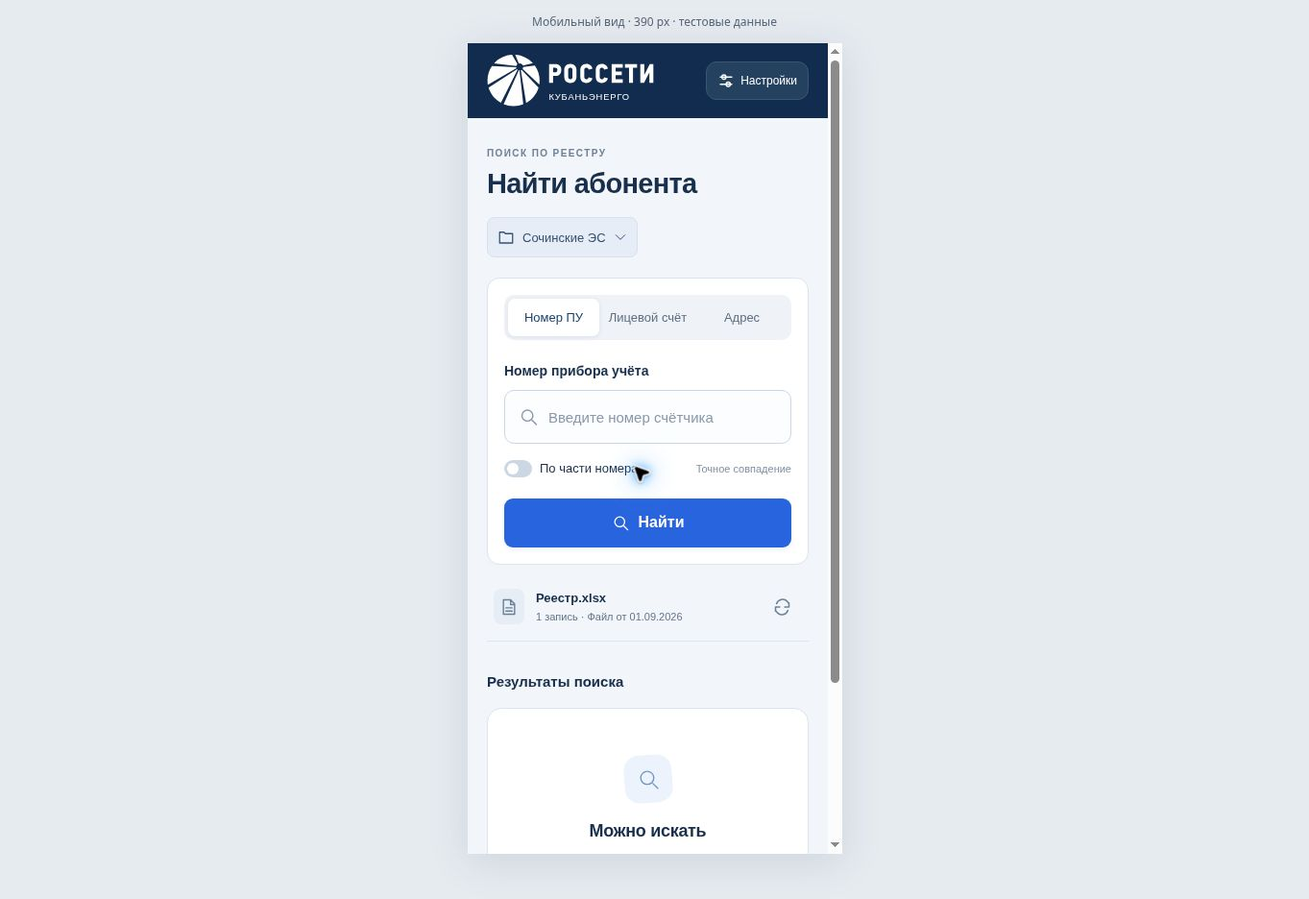
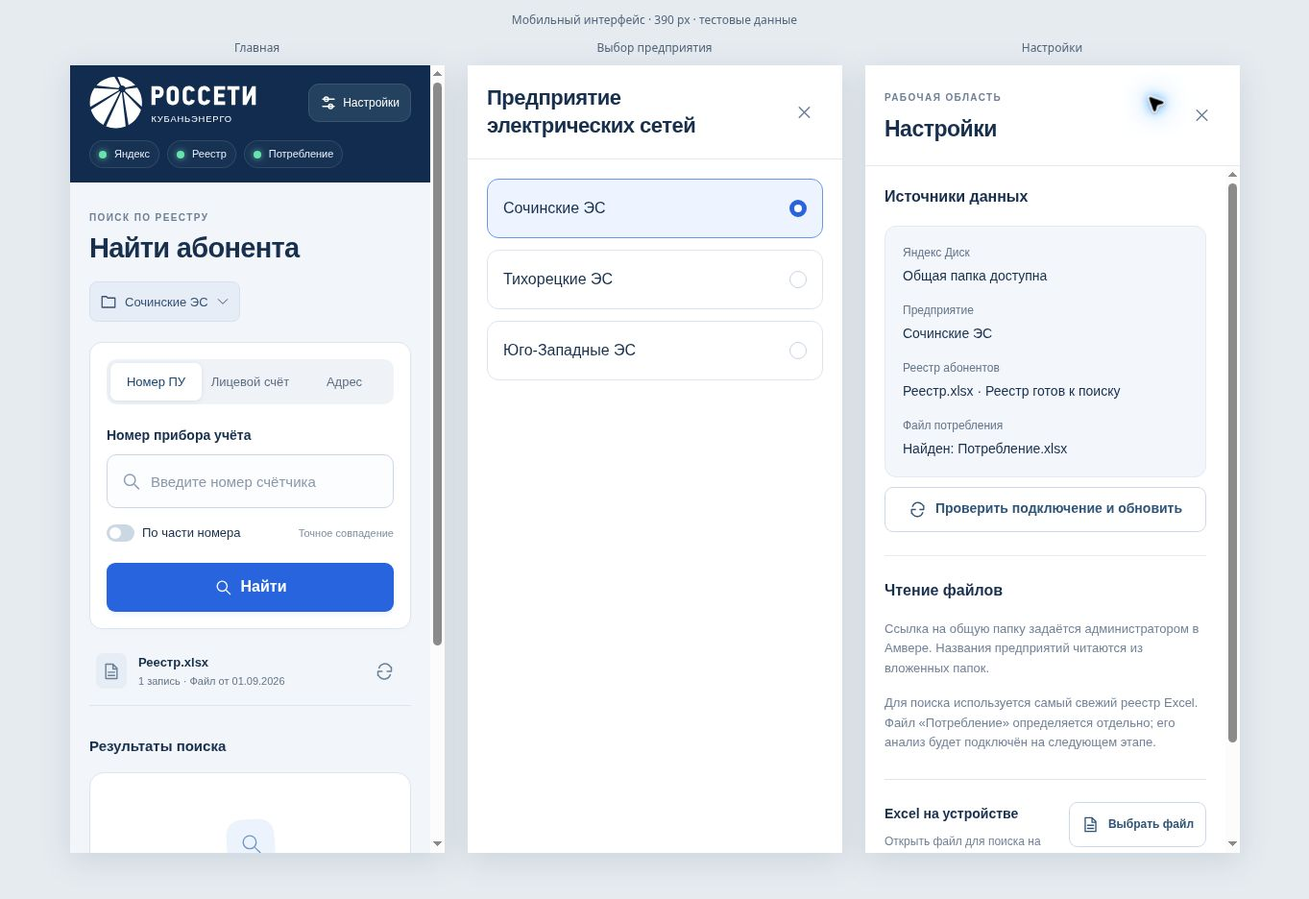
Separate enterprise picker from settings and show three source indicators

diff --git a/public/styles.css b/public/styles.css
@@ -3,7 +3,7 @@
 *{box-sizing:border-box}body{margin:0;font-size:16px;line-height:1.5}button,input,select{font:inherit}button,a,input,select,label{ -webkit-tap-highlight-color:transparent}button{cursor:pointer}button{border:0}button:disabled{cursor:wait;opacity:.5}a{color:inherit;text-decoration:none}svg{width:24px;height:24px;fill:none;stroke:currentColor;stroke-width:1.7;stroke-linecap:round;stroke-linejoin:round;flex-shrink:0}h1,h2,h3,p{margin:0}button:focus-visible,a:focus-visible,input:focus-visible,select:focus-visible{outline:3px solid var(--focus);outline-offset:3px}button{transition:background .16s,box-shadow .16s,transform .16s}button:active{transform:translateY(1px)}[hidden]{display:none!important}.icon-defs{position:absolute;width:0;height:0;overflow:hidden}.sr-only{position:absolute;width:1px;height:1px;padding:0;margin:-1px;overflow:hidden;clip:rect(0,0,0,0);white-space:nowrap;border:0}
 .topbar{background:var(--navy);color:#fff}.header-inner{max-width:1184px;margin:auto;height:100px;padding:0 40px;display:flex;align-items:center;gap:28px}.brand{display:block;position:relative;flex:0 0 auto;width:222px;line-height:1}.brand-logo{display:block;width:100%;height:auto;filter:brightness(0) invert(1)}.brand-caption{position:absolute;left:37%;top:71.5%;font-size:12px;letter-spacing:1.1px;font-weight:500;color:#fff;line-height:1;white-space:nowrap}.header-note{font-size:14px;color:#a9bdd5;border-left:1px solid #3c516c;padding-left:28px}.settings-button{margin-left:auto;display:flex;align-items:center;gap:9px;color:#fff;background:#254160;border:1px solid #3d5571;border-radius:11px;height:44px;padding:0 15px;font-size:14px}.settings-button:hover{background:#355272}.settings-button svg{width:20px}
 .workspace{max-width:1184px;margin:auto;padding:45px 40px 0}.page-heading{position:relative;margin-bottom:29px}.eyebrow{font-size:11px;font-weight:650;letter-spacing:1.6px;color:#6f8197}.page-heading h1{font-size:36px;line-height:1.25;letter-spacing:-1.1px;margin-top:8px;font-weight:650}.district-button{position:absolute;right:0;bottom:5px;display:flex;gap:9px;align-items:center;background:#e6edf7;color:#345274;border:1px solid #d6e1ef;border-radius:8px;padding:10px 12px;font-size:14px;max-width:48%;text-align:left}.district-button span{overflow-wrap:anywhere}.district-button>svg:first-child{width:18px}.small-chevron{width:14px!important;height:14px!important;transform:rotate(90deg)}.work-grid{display:grid;grid-template-columns:390px minmax(0,1fr);gap:38px;align-items:start}.search-panel{padding:24px;background:var(--surface);border:1px solid var(--line);border-radius:16px;box-shadow:0 3px 8px #20375303}.search-types{margin:0 0 28px;padding:4px;display:flex;border:none;gap:3px;background:#eff3f8;border-radius:10px}.search-types label{flex:1;position:relative}.search-types input{position:absolute;opacity:0;width:1px}.search-types span{display:flex;justify-content:center;align-items:center;min-height:41px;font-size:14px;color:#5e6e83;white-space:nowrap;border-radius:7px;cursor:pointer;font-weight:500}.search-types input:checked+span{background:#fff;color:#194371;box-shadow:0 1px 5px #1b385319}.search-types input:focus-visible+span{outline:3px solid var(--focus)}.input-label{display:block;font-size:14px;font-weight:550;margin-bottom:9px}.search-input-wrap{display:flex;align-items:center;position:relative}.search-input-wrap>svg{position:absolute;left:15px;color:#8b9bb0;width:21px}.search-input-wrap input{width:100%;min-width:0;height:57px;padding:0 40px 0 45px;border:1.5px solid #cbd7e5;border-radius:10px;background:#fcfdff;color:var(--ink);font-size:17px;letter-spacing:.2px}.search-input-wrap input::placeholder{font-size:15px;letter-spacing:0;color:#8a98aa}.search-input-wrap input:focus{border-color:var(--blue);outline:3px solid #2864de12}.clear-input{position:absolute;right:4px;height:42px;width:36px;color:#758399;background:transparent;display:grid;place-items:center}.clear-input svg{width:17px}.search-options{display:flex;align-items:center;justify-content:space-between;margin:18px 0 25px;gap:8px}.switch-label{display:flex;align-items:center;gap:8px;cursor:pointer;font-size:13px;position:relative}.switch-label input{position:absolute;opacity:0}.switch-track{position:relative;display:block;width:29px;height:18px;background:#ccd7e4;border-radius:20px;flex-shrink:0}.switch-track:before{content:'';position:absolute;top:3px;left:3px;width:12px;height:12px;background:white;border-radius:50%;transition:transform .15s}.switch-label input:checked+.switch-track{background:var(--blue)}.switch-label input:checked+.switch-track:before{transform:translateX(11px)}.switch-label input:focus-visible+.switch-track{outline:3px solid var(--focus)}#match-hint{font-size:11px;color:#8090a4}.primary,.secondary{display:inline-flex;align-items:center;justify-content:center;gap:9px;min-height:47px;padding:11px 19px;border-radius:9px;font-size:14px;font-weight:600;line-height:1.4}.primary{background:var(--blue);color:#fff;box-shadow:0 3px 5px #2864de12}.primary:hover{background:#1956ca}.secondary{background:#fff;border:1px solid #cdd9e7;color:#305578}.secondary:hover{background:#f0f5fb}.primary svg,.secondary svg{width:19px;height:19px}.search-submit{width:100%;height:51px;font-size:16px}.source-card{display:flex;align-items:center;gap:12px;margin-top:18px;padding:17px 13px;border-bottom:1px solid var(--line)}.source-icon{width:37px;height:42px;display:grid;place-items:center;color:#6a8098;background:#e6edf5;border-radius:8px;flex-shrink:0}.source-icon svg{width:20px}.source-copy{min-width:0;flex:1}.source-copy strong{display:block;font-size:13px;line-height:1.5;font-weight:600;overflow-wrap:anywhere}.source-copy span{display:block;font-size:12px;color:var(--muted);margin-top:2px;line-height:1.5}.icon-button{width:42px;height:42px;display:grid;place-items:center;background:transparent;color:#6b8099;border-radius:9px;flex-shrink:0}.icon-button:hover{background:#e9eff6}.icon-button svg{width:21px}.desktop-footnote{display:flex;align-items:center;gap:13px;color:#8c9bad;padding:30px 15px;font-size:13px}.desktop-footnote svg{width:18px;height:26px;stroke-width:1.3}.demo-banner{display:flex;align-items:center;justify-content:space-between;gap:8px;margin-top:14px;font-size:12px;color:#956b16;background:#fff3cf;padding:9px 11px;border-radius:7px}.demo-banner button{background:none;color:#73500d;text-decoration:underline;font-size:12px;padding:5px}.example-queries{display:flex;flex-wrap:wrap;align-items:center;gap:7px;margin:15px 0;font-size:12px;color:var(--muted)}.example-queries button{border:1px solid #cedbed;border-radius:6px;padding:6px 9px;background:white;color:#426387;font-size:12px}.results-heading{display:flex;align-items:center;justify-content:space-between;min-height:28px;margin:0 0 15px}.results-heading h2{font-size:16px;font-weight:600}.results-heading>span{font-size:12px;color:#6d8099}.empty-state{background:#fff;border:1px solid var(--line);border-radius:15px;min-height:332px;display:flex;flex-direction:column;align-items:center;justify-content:center;text-align:center;padding:36px 27px;position:relative;overflow:hidden}.empty-mark{height:65px;width:65px;border-radius:20px;background:#edf3fc;color:#6e96ca;display:grid;place-items:center;margin-bottom:22px;transform:rotate(-4deg)}.empty-mark svg{width:30px;height:30px;transform:rotate(4deg);stroke-width:1.3}.empty-state h3{font-size:19px;font-weight:600;letter-spacing:-.3px;margin-bottom:9px}.empty-state p{font-size:14px;line-height:1.7;color:var(--muted);max-width:295px;margin-bottom:23px}.empty-actions{display:flex;flex-direction:column;align-items:center;gap:12px}.text-button{color:#436b9c;font-size:13px;padding:8px;background:none}.text-button:hover{text-decoration:underline}.result-card{background:#fff;border:1px solid var(--line);border-radius:14px;margin-bottom:13px;overflow:hidden;box-shadow:0 2px 3px #203c5302}.result-top{padding:20px 22px 15px;display:flex;gap:12px;justify-content:space-between;align-items:flex-start}.result-name{font-size:17px;font-weight:600;line-height:1.4;overflow-wrap:anywhere;flex:1}.status{border:1px solid #d2e5dd;background:#edf7f2;color:#36705a;padding:3px 7px;border-radius:5px;font-size:11px;white-space:nowrap}.status.off{background:#f5eee8;border-color:#e9dcd0;color:#8a6545}.result-address{display:flex;gap:7px;color:var(--muted);padding:0 22px 18px;font-size:13px}.result-address svg{width:15px;height:18px;margin-top:1px}.result-numbers{display:grid;grid-template-columns:1fr 1fr;margin:0 22px 17px;background:#f4f7fc;border-radius:9px;padding:12px 14px;gap:14px}.number-label{font-size:11px;color:#71839b;margin-bottom:5px}.number-value{font-size:17px;font-weight:600;letter-spacing:.4px;overflow-wrap:anywhere;font-variant-numeric:tabular-nums}.result-bottom{display:flex;justify-content:space-between;align-items:center;border-top:1px solid #e7edf4;padding:11px 16px 11px 22px;gap:10px}.result-bottom span{font-size:12px;color:#8291a5}.record-open{background:transparent;color:#2864bf;padding:7px 4px;font-size:13px;font-weight:600}.show-more{width:100%;margin-top:8px}.form-message{font-size:13px;line-height:1.6;margin-top:14px;padding:12px;border-radius:8px;background:#fef0ed;color:#9b4b3c;overflow-wrap:anywhere}.form-message.loading{background:#edf4ff;color:#406c9d}.page-footer{display:flex;justify-content:space-between;border-top:1px solid #dce4ee;margin-top:75px;padding:23px 0 26px;font-size:10px;letter-spacing:1px;color:#8b9cb1}.page-footer>span:last-child{letter-spacing:0;font-size:12px}.footer-slash{margin:0 8px;color:#b0bed0}
-dialog{border:0;padding:0;color:var(--ink);box-shadow:0 20px 100px #0c244440;border-radius:20px;width:560px;max-width:calc(100vw - 28px);max-height:calc(100dvh - 48px);background:#fff}dialog::backdrop{background:#0e253868;backdrop-filter:blur(3px)}dialog[open]{display:flex;flex-direction:column}.dialog-header{display:flex;justify-content:space-between;gap:16px;align-items:center;padding:24px 26px 21px;border-bottom:1px solid #e2e9f1;background:#fff;flex-shrink:0}.dialog-header h2{font-size:24px;font-weight:600;letter-spacing:-.5px;margin-top:5px}.dialog-body{padding:24px 26px;overflow-y:auto;overscroll-behavior:contain}.setting-section+.setting-section{border-top:1px solid #e6ecf3;margin-top:24px;padding-top:24px}.setting-section h3{font-size:16px;font-weight:600;display:flex;align-items:center;gap:11px;margin-bottom:18px}.step{font-size:11px;font-weight:600;line-height:27px;text-align:center;width:27px;color:#5082bd;border-radius:7px;background:#edf3fc}.text-input{width:100%;height:49px;border:1px solid #cad7e7;border-radius:8px;padding:0 13px;background:#fcfdff;color:var(--ink);font-size:16px}.hint{font-size:13px;color:#738297;line-height:1.6;margin:8px 0 15px}.full-width{width:100%;margin-top:10px}.pinned-source{display:flex;align-items:center;gap:10px;font-size:14px;background:#f1f5fb;border-radius:8px;padding:15px 12px}.pinned-source>svg{width:18px;color:#5680b3}.tag{margin-left:auto;color:#647a95;font-size:10px;white-space:nowrap}.choice-list{display:grid;gap:9px}.choice-item{display:flex;align-items:center;gap:12px;border:1px solid #dbe4ef;border-radius:9px;padding:13px;text-align:left;background:#fff;color:var(--ink);width:100%}.choice-item.selected{border-color:#6599e7;background:#edf4ff}.choice-item>svg{width:20px;color:#6b8fb9}.choice-item>span{flex:1;font-size:14px;min-width:0;overflow-wrap:anywhere}.choice-item small{display:block;color:#73859d;font-size:11px;margin-top:3px}.choice-dot{width:18px;height:18px;border:1.5px solid #c5d4e7;border-radius:50%;flex-shrink:0}.selected .choice-dot{border:5px solid var(--blue);background:white}.local-source{border-top:1px solid var(--line);padding-top:23px;margin-top:27px;display:flex;align-items:center;gap:15px}.local-source>div{flex:1}.local-source strong{font-size:14px;font-weight:550}.local-source .hint{font-size:12px;margin-bottom:0}.file-upload{cursor:pointer;font-size:12px;white-space:nowrap;padding:10px 12px}.file-upload:focus-within{outline:3px solid var(--focus);outline-offset:3px}.privacy-note{font-size:11px;color:#8997a9;margin-top:23px;line-height:1.65}.map-sheet{margin-top:18px;background:#f5f8fc;padding:15px;border-radius:9px}.map-sheet h4{margin:0 0 12px;font-size:14px}.map-row{margin-bottom:12px}.map-row label{display:block;font-size:12px;margin-bottom:5px}.map-row select{width:100%;border:1px solid #cdd9e8;background:white;border-radius:6px;padding:10px;font-size:14px;color:var(--ink)}.map-preview{font-size:12px;color:#6a7e98;margin-top:5px;overflow-wrap:anywhere}.notice{margin-top:15px;background:#fff5de;border-radius:8px;padding:12px;font-size:12px;color:#886a23}.record-dialog{width:650px}.record-intro{margin-bottom:22px}.record-intro h3{font-size:23px;letter-spacing:-.5px;line-height:1.4;margin-bottom:10px}.record-intro p{font-size:14px;color:var(--muted);line-height:1.6}.record-main-numbers{display:grid;grid-template-columns:1fr 1fr;gap:10px;margin:23px 0;background:#f0f5fc;padding:17px;border-radius:10px}.record-main-numbers .number-value{font-size:19px}.record-main-numbers .number-label{font-size:12px}.detail-row{display:grid;grid-template-columns:1fr 1.2fr;gap:20px;border-bottom:1px solid #edf1f6;padding:12px 0;font-size:14px;overflow-wrap:anywhere}.detail-row dt{color:#708098}.detail-row dd{margin:0;white-space:pre-wrap}.details-title{font-size:13px;font-weight:600;color:#60738b;margin-top:24px}.record-source{font-size:12px;line-height:1.8;color:#8a98aa;margin-top:23px;overflow-wrap:anywhere}.copy-record{margin-top:18px;width:100%}.toast{position:fixed;z-index:20;bottom:24px;left:50%;transform:translateX(-50%);padding:12px 20px;background:var(--navy);color:white;border-radius:9px;box-shadow:0 6px 30px #12345620;font-size:14px;text-align:center;max-width:calc(100% - 30px);width:max-content}.loading-indicator{width:22px;height:22px;border:2px solid #d7e5f8;border-top-color:var(--blue);border-radius:50%;animation:spin 1s linear infinite;margin:20px auto}.loading-row{padding:20px;text-align:center;color:var(--muted);font-size:14px}@keyframes spin{to{transform:rotate(360deg)}}
+dialog{height:min(760px, calc(100dvh - 48px));border:0;padding:0;color:var(--ink);box-shadow:0 20px 100px #0c244440;border-radius:20px;width:560px;max-width:calc(100vw - 28px);max-height:calc(100dvh - 48px);background:#fff}dialog::backdrop{background:#0e253868;backdrop-filter:blur(3px)}dialog[open]{display:flex;flex-direction:column}.dialog-header{display:flex;justify-content:space-between;gap:16px;align-items:center;padding:24px 26px 21px;border-bottom:1px solid #e2e9f1;background:#fff;flex-shrink:0}.dialog-header h2{font-size:24px;font-weight:600;letter-spacing:-.5px;margin-top:5px}.dialog-body{padding:24px 26px;overflow-y:auto;overscroll-behavior:contain}.setting-section+.setting-section{border-top:1px solid #e6ecf3;margin-top:24px;padding-top:24px}.setting-section h3{font-size:16px;font-weight:600;display:flex;align-items:center;gap:11px;margin-bottom:18px}.step{font-size:11px;font-weight:600;line-height:27px;text-align:center;width:27px;color:#5082bd;border-radius:7px;background:#edf3fc}.text-input{width:100%;height:49px;border:1px solid #cad7e7;border-radius:8px;padding:0 13px;background:#fcfdff;color:var(--ink);font-size:16px}.hint{font-size:13px;color:#738297;line-height:1.6;margin:8px 0 15px}.full-width{width:100%;margin-top:10px}.pinned-source{display:flex;align-items:center;gap:10px;font-size:14px;background:#f1f5fb;border-radius:8px;padding:15px 12px}.pinned-source>svg{width:18px;color:#5680b3}.tag{margin-left:auto;color:#647a95;font-size:10px;white-space:nowrap}.choice-list{display:grid;gap:9px}.choice-item{display:flex;align-items:center;gap:12px;border:1px solid #dbe4ef;border-radius:9px;padding:13px;text-align:left;background:#fff;color:var(--ink);width:100%}.choice-item.selected{border-color:#6599e7;background:#edf4ff}.choice-item>svg{width:20px;color:#6b8fb9}.choice-item>span{flex:1;font-size:14px;min-width:0;overflow-wrap:anywhere}.choice-item small{display:block;color:#73859d;font-size:11px;margin-top:3px}.choice-dot{width:18px;height:18px;border:1.5px solid #c5d4e7;border-radius:50%;flex-shrink:0}.selected .choice-dot{border:5px solid var(--blue);background:white}.local-source{border-top:1px solid var(--line);padding-top:23px;margin-top:27px;display:flex;align-items:center;gap:15px}.local-source>div{flex:1}.local-source strong{font-size:14px;font-weight:550}.local-source .hint{font-size:12px;margin-bottom:0}.file-upload{cursor:pointer;font-size:12px;white-space:nowrap;padding:10px 12px}.file-upload:focus-within{outline:3px solid var(--focus);outline-offset:3px}.privacy-note{font-size:11px;color:#8997a9;margin-top:23px;line-height:1.65}.map-sheet{margin-top:18px;background:#f5f8fc;padding:15px;border-radius:9px}.map-sheet h4{margin:0 0 12px;font-size:14px}.map-row{margin-bottom:12px}.map-row label{display:block;font-size:12px;margin-bottom:5px}.map-row select{width:100%;border:1px solid #cdd9e8;background:white;border-radius:6px;padding:10px;font-size:14px;color:var(--ink)}.map-preview{font-size:12px;color:#6a7e98;margin-top:5px;overflow-wrap:anywhere}.notice{margin-top:15px;background:#fff5de;border-radius:8px;padding:12px;font-size:12px;color:#886a23}.record-dialog{width:650px}.record-intro{margin-bottom:22px}.record-intro h3{font-size:23px;letter-spacing:-.5px;line-height:1.4;margin-bottom:10px}.record-intro p{font-size:14px;color:var(--muted);line-height:1.6}.record-main-numbers{display:grid;grid-template-columns:1fr 1fr;gap:10px;margin:23px 0;background:#f0f5fc;padding:17px;border-radius:10px}.record-main-numbers .number-value{font-size:19px}.record-main-numbers .number-label{font-size:12px}.detail-row{display:grid;grid-template-columns:1fr 1.2fr;gap:20px;border-bottom:1px solid #edf1f6;padding:12px 0;font-size:14px;overflow-wrap:anywhere}.detail-row dt{color:#708098}.detail-row dd{margin:0;white-space:pre-wrap}.details-title{font-size:13px;font-weight:600;color:#60738b;margin-top:24px}.record-source{font-size:12px;line-height:1.8;color:#8a98aa;margin-top:23px;overflow-wrap:anywhere}.copy-record{margin-top:18px;width:100%}.toast{position:fixed;z-index:20;bottom:24px;left:50%;transform:translateX(-50%);padding:12px 20px;background:var(--navy);color:white;border-radius:9px;box-shadow:0 6px 30px #12345620;font-size:14px;text-align:center;max-width:calc(100% - 30px);width:max-content}.loading-indicator{width:22px;height:22px;border:2px solid #d7e5f8;border-top-color:var(--blue);border-radius:50%;animation:spin 1s linear infinite;margin:20px auto}.loading-row{padding:20px;text-align:center;color:var(--muted);font-size:14px}@keyframes spin{to{transform:rotate(360deg)}}
 @media(min-width:1400px){.workspace{padding-top:58px}.work-grid{gap:50px}.page-heading{margin-bottom:36px}}
 @media(max-width:900px){.work-grid{grid-template-columns:340px minmax(0,1fr);gap:22px}.header-inner{padding:0 25px}.workspace{padding:35px 25px 0}.search-panel{padding:18px}.district-button{max-width:43%}.page-heading h1{font-size:31px}.result-numbers{grid-template-columns:1fr}.result-name{font-size:16px}#match-hint{display:none}}
 @media(max-width:700px){.header-inner{height:78px;padding:0 20px;gap:12px}.brand{width:174px}.brand-caption{font-size:9.4px;letter-spacing:.85px}.header-note{display:none}.settings-button{height:40px;padding:0 11px;font-size:12px;gap:6px}.settings-button svg{width:18px}.workspace{padding:29px 20px 0}.eyebrow{font-size:10px;letter-spacing:1.4px}.page-heading{margin-bottom:21px}.page-heading h1{font-size:29px;letter-spacing:-.7px;margin-top:6px}.district-button{position:static;margin-top:17px;max-width:100%;font-size:13px;padding:8px 10px;gap:8px;min-height:38px}.work-grid{grid-template-columns:1fr;gap:28px}.search-panel{padding:17px;border-radius:13px}.search-types{margin-bottom:22px}.search-types span{min-height:39px;font-size:13px}.search-input-wrap input{height:56px;font-size:18px}.input-label{font-size:14px}.search-options{margin:16px 0 21px}.switch-label{font-size:13px}#match-hint{display:block;font-size:11px}.source-card{margin-top:9px;padding:14px 7px}.source-copy strong{font-size:13px}.source-copy span{font-size:11px}.source-icon{width:32px;height:37px}.desktop-footnote{display:none}.results-heading{margin-bottom:13px}.results-heading h2{font-size:15px}.empty-state{min-height:263px;padding:25px 23px}.empty-mark{width:50px;height:50px;border-radius:16px;margin-bottom:16px}.empty-mark svg{width:25px;height:25px}.empty-state h3{font-size:18px}.empty-state p{font-size:13px;margin-bottom:18px}.empty-actions{gap:6px}.empty-actions .secondary{font-size:13px;min-height:42px}.page-footer{margin-top:38px;padding-top:20px;padding-bottom:calc(24px + env(safe-area-inset-bottom));font-size:9px;letter-spacing:.7px}.page-footer>span:last-child{font-size:10px}.footer-slash{margin:0 4px}.result-top{padding:17px 17px 12px}.result-name{font-size:16px}.result-address{padding:0 17px 15px;font-size:13px}.result-numbers{margin:0 17px 14px;grid-template-columns:1fr 1fr;gap:12px;padding:12px}.number-value{font-size:16px}.result-bottom{padding:9px 13px 9px 17px}.result-bottom span{font-size:11px}.record-open{font-size:13px;min-height:36px}dialog{max-width:100%;width:100%;max-height:92dvh;margin:auto 0 0;border-radius:20px 20px 0 0}.dialog-header{padding:21px 21px 17px}.dialog-header h2{font-size:23px}.dialog-body{padding:21px 21px calc(24px + env(safe-area-inset-bottom))}.local-source{align-items:flex-start;flex-wrap:wrap}.record-intro h3{font-size:21px}.record-main-numbers{padding:14px}.record-main-numbers .number-value{font-size:17px}.detail-row{grid-template-columns:1fr 1.1fr;gap:15px;font-size:13px}.privacy-note{font-size:11px}.example-queries{margin-bottom:0}.toast{bottom:calc(20px + env(safe-area-inset-bottom))}}
@@ -12,3 +12,47 @@ dialog{border:0;padding:0;color:var(--ink);box-shadow:0 20px 100px #0c244440;bor
 dialog{overflow:hidden}.dialog-body{min-height:0;flex:1}.search-types input:disabled+span{opacity:.45;cursor:not-allowed}
 
 @media(max-width:360px){.settings-button{width:40px;padding:0;justify-content:center}.settings-button span{display:none}.page-footer{flex-direction:column;align-items:flex-start;gap:8px}}
+
+/* Connection lights and independent enterprise picker. */
+.header-inner{height:88px}
+.source-indicators{max-width:1184px;margin:0 auto;padding:0 40px 18px;display:flex;gap:9px;flex-wrap:wrap}
+.source-indicator{--lamp:#fb7b8c;display:inline-flex;align-items:center;gap:9px;min-height:29px;padding:5px 10px;color:#e4eefb;background:#ffffff08;border:1px solid #ffffff1b;border-radius:20px;font-size:11px;line-height:1.4;text-align:left}
+.source-indicator:hover{background:#ffffff14}
+.source-indicator[data-state="idle"]{--lamp:#7d91ab}.source-indicator[data-state="idle"] .status-light{box-shadow:0 0 0 3px #ffffff06}
+.source-indicator[data-state="on"]{--lamp:#65e4ad}
+.source-indicator[data-state="checking"]{--lamp:#90c9ff}
+.status-light{display:block;width:8px;height:8px;flex:0 0 8px;border-radius:50%;background:var(--lamp);box-shadow:0 0 0 3px #ffffff09,0 0 9px color-mix(in srgb,var(--lamp) 65%,transparent)}
+.source-indicator[data-state="checking"] .status-light{animation:lamp-pulse 1.2s ease-in-out infinite}
+@keyframes lamp-pulse{50%{opacity:.4}}
+.source-details{margin:0;display:grid;gap:16px;padding:18px;background:#f3f6fb;border:1px solid #e3eaf3;border-radius:12px}
+.source-details div{display:grid;gap:5px}
+.source-details dt{font-size:12px;color:var(--muted)}
+.source-details dd{margin:0;font-size:14px;line-height:1.5;overflow-wrap:anywhere}
+.enterprise-dialog{height:min(660px,calc(100dvh - 48px))}
+.enterprise-dialog .dialog-header h2{font-size:23px;line-height:1.3;margin:0;max-width:370px}
+.dialog-header .close-dialog{flex:0 0 40px}
+.enterprise-body .choice-item{min-height:62px;border-radius:12px;padding:16px}
+.enterprise-body .choice-item>span{font-size:16px;line-height:1.5}
+.enterprise-loading,.enterprise-empty{padding:48px 16px;text-align:center;color:var(--muted);font-size:14px;line-height:1.6}
+.enterprise-loading .loading-indicator{display:block;width:30px;height:30px;margin:0 auto 20px;border-width:3px}
+.loading-bar{height:3px;background:#e8eef7;border-radius:4px;overflow:hidden;max-width:180px;margin:22px auto 0}
+.loading-bar:before{content:"";display:block;width:40%;height:100%;background:var(--blue);border-radius:4px;animation:loading-bar 1.4s ease-in-out infinite}
+@keyframes loading-bar{from{transform:translateX(-100%)}to{transform:translateX(350%)}}
+.enterprise-empty .secondary{margin-top:18px}
+.consumption-action{padding:0 0 5px}
+.analysis-button{width:100%;display:flex;align-items:center;gap:12px;text-align:left;line-height:1.4;padding:15px;font-size:14px;border-radius:10px}
+.analysis-button:disabled{opacity:1;background:#eef3fb;color:#617894;border:1px solid #dce6f4;cursor:default}
+.analysis-button>svg{flex:0 0 22px}
+.soon-badge{margin-left:auto;flex-shrink:0;font-size:11px;padding:4px 7px;background:#fff;color:#667e9c;border-radius:5px}
+.consumption-action .hint{margin-bottom:0}
+html:has(dialog[open]){overflow:hidden}
+@media(max-width:700px){
+ .header-inner{height:78px}
+ .source-indicators{padding:0 20px 15px;gap:8px}
+ .source-indicator{padding:5px 9px;font-size:11px;gap:8px}
+ .full-screen-dialog{position:fixed;inset:0;width:100%;max-width:100%;height:100vh;height:100dvh;max-height:100vh;max-height:100dvh;margin:0;border:0;border-radius:0}
+ .full-screen-dialog .dialog-header{padding:calc(20px + env(safe-area-inset-top)) 20px 20px}
+ .full-screen-dialog .dialog-body{padding:20px 20px calc(24px + env(safe-area-inset-bottom));flex:1 1 auto;min-height:0;overflow-y:auto;-webkit-overflow-scrolling:touch}
+ .enterprise-dialog .dialog-header h2{font-size:22px}
+ .enterprise-dialog .choice-list{gap:12px}
+}

diff --git a/public/index.html b/public/index.html
@@ -24,12 +24,18 @@
     <symbol id="i-pin" viewBox="0 0 24 24"><path d="M19 10c0 6-7 11-7 11S5 16 5 10a7 7 0 1 1 14 0Z"/><circle cx="12" cy="10" r="2"/></symbol>
     <symbol id="i-copy" viewBox="0 0 24 24"><rect x="8" y="8" width="12" height="13" rx="2"/><path d="M16 8V3H3v13h5"/></symbol>
     <symbol id="i-chevron" viewBox="0 0 24 24"><path d="m8 4 8 8-8 8"/></symbol>
+    <symbol id="i-chart" viewBox="0 0 24 24"><path d="M4 3v17h17M8 15l4-5 4 2 5-7"/></symbol>
   </svg>
   <header class="topbar">
     <div class="header-inner">
       <a class="brand" href="./" aria-label="РОССЕТИ — Кубаньэнерго, главная"><img class="brand-logo" src="./rosseti-logo.svg" alt="РОССЕТИ" width="280" height="88"><span class="brand-caption">КУБАНЬЭНЕРГО</span></a>
       <span class="header-note">Рабочий реестр</span>
       <button class="settings-button" id="settings-open" aria-label="Настройки"><svg><use href="#i-settings"/></svg><span>Настройки</span></button>
+    </div>
+    <div class="source-indicators" aria-label="Источники данных">
+      <button type="button" class="source-indicator" id="disk-indicator" data-state="checking" data-open-settings><i class="status-light" aria-hidden="true"></i><span>Яндекс</span><span class="sr-only" id="disk-indicator-label">Проверяем подключение</span></button>
+      <button type="button" class="source-indicator" id="registry-indicator" data-state="idle" data-open-settings><i class="status-light" aria-hidden="true"></i><span>Реестр</span><span class="sr-only" id="registry-indicator-label">Предприятие не выбрано</span></button>
+      <button type="button" class="source-indicator" id="consumption-indicator" data-state="idle" data-open-settings><i class="status-light" aria-hidden="true"></i><span>Потребление</span><span class="sr-only" id="consumption-indicator-label">Предприятие не выбрано</span></button>
     </div>
   </header>
   <main class="workspace">
@@ -44,7 +50,7 @@
           <button class="primary search-submit" type="submit" id="search-submit"><svg><use href="#i-search"/></svg>Найти</button>
           <div id="form-message" class="form-message" role="status" hidden></div>
         </form>
-        <div class="source-card" id="source-card"><div class="source-icon"><svg><use href="#i-file"/></svg></div><div class="source-copy"><strong id="source-name">Реестр не подключён</strong><span id="source-meta">Выберите предприятие в настройках</span></div><button class="icon-button" id="refresh" title="Обновить реестр" aria-label="Обновить реестр" hidden><svg><use href="#i-refresh"/></svg></button></div>
+        <div class="source-card" id="source-card"><div class="source-icon"><svg><use href="#i-file"/></svg></div><div class="source-copy"><strong id="source-name">Реестр не подключён</strong><span id="source-meta">Выберите предприятие</span></div><button class="icon-button" id="refresh" title="Обновить реестр" aria-label="Обновить реестр" hidden><svg><use href="#i-refresh"/></svg></button></div>
         <div id="demo-banner" class="demo-banner" hidden><span>Демонстрация · вымышленные данные</span><button id="demo-exit" type="button">Выйти</button></div>
         <div id="example-queries" class="example-queries" hidden><span>Попробуйте</span><button data-query="00123456" data-field="meter">ПУ 00123456</button><button data-query="00000001001" data-field="account">ЛС 00000001001</button></div>
         <div class="desktop-footnote"><svg><use href="#i-bolt"/></svg><p>Вся строка реестра —<br>в одной карточке</p></div>
@@ -57,11 +63,15 @@
     </div>
     <footer class="page-footer"><span>РОССЕТИ <span class="footer-slash">/</span> КУБАНЬЭНЕРГО</span><span>Данные из вашего реестра</span></footer>
   </main>
-  <dialog id="settings-dialog" class="settings-dialog">
-    <div class="dialog-header"><div><span class="eyebrow">РАБОЧАЯ ОБЛАСТЬ</span><h2>Настройки</h2></div><button class="icon-button close-dialog" aria-label="Закрыть настройки"><svg><use href="#i-close"/></svg></button></div>
+  <dialog id="enterprise-dialog" class="enterprise-dialog full-screen-dialog" aria-labelledby="enterprise-title">
+    <div class="dialog-header"><h2 id="enterprise-title">Предприятие электрических сетей</h2><button class="icon-button close-dialog" aria-label="Закрыть выбор предприятия"><svg><use href="#i-close"/></svg></button></div>
+    <div class="dialog-body enterprise-body"><div id="folder-list" class="choice-list" aria-live="polite"></div></div>
+  </dialog>
+  <dialog id="settings-dialog" class="settings-dialog full-screen-dialog" aria-labelledby="settings-title">
+    <div class="dialog-header"><div><span class="eyebrow">РАБОЧАЯ ОБЛАСТЬ</span><h2 id="settings-title">Настройки</h2></div><button class="icon-button close-dialog" aria-label="Закрыть настройки"><svg><use href="#i-close"/></svg></button></div>
     <div class="dialog-body">
-      <div id="pinned-source" class="pinned-source" hidden><svg><use href="#i-folder"/></svg><span>Общая папка Яндекс Диска</span><span class="tag">Подключена</span></div><p id="source-setup-message" class="hint" role="status">Подключаем общую папку…</p>
-      <div class="setting-section folder-section"><h3>Предприятие электрических сетей</h3><p class="hint">Названия предприятий считываются из папок на Яндекс Диске. Выберите своё — реестр абонентов откроется автоматически.</p><p class="hint">Файл «Потребление» пока не используется. Если реестров несколько, откроется самый свежий.</p><div id="folder-list" class="choice-list"><p class="hint">Загружаем предприятия…</p></div><button id="read-folders" class="secondary full-width" disabled><svg><use href="#i-refresh"/></svg>Обновить список предприятий</button></div>
+      <section class="setting-section"><h3>Источники данных</h3><dl class="source-details"><div><dt>Яндекс Диск</dt><dd id="disk-detail">Проверяем подключение…</dd></div><div><dt>Предприятие</dt><dd id="enterprise-detail">Не выбрано</dd></div><div><dt>Реестр абонентов</dt><dd id="registry-detail">Не загружен</dd></div><div><dt>Файл потребления</dt><dd id="consumption-detail">Сначала выберите предприятие</dd></div></dl><p id="source-setup-message" class="hint" role="status"></p><button id="read-folders" class="secondary full-width"><svg><use href="#i-refresh"/></svg>Проверить подключение и обновить</button></section>
+      <section class="setting-section"><h3>Чтение файлов</h3><p class="hint">Ссылка на общую папку задаётся администратором в Амвере. Названия предприятий читаются из вложенных папок.</p><p class="hint">Для поиска используется самый свежий реестр Excel. Файл «Потребление» определяется отдельно; его анализ будет подключён на следующем этапе.</p></section>
       <div class="setting-section" id="mapping-section" hidden><h3>Проверьте столбцы</h3><p class="hint">Убедитесь, что приложение правильно определило номера ПУ и лицевых счетов.</p><div id="mapping-fields"></div><div id="mapping-warning" class="notice" hidden></div><button id="confirm-mapping" class="primary full-width">Использовать реестр</button></div>
       <div id="settings-message" class="form-message" role="status" hidden></div>
       <div class="local-source"><div><strong>Excel на устройстве</strong><p class="hint">Открыть файл для поиска на этом устройстве.</p></div><label class="secondary file-upload"><svg><use href="#i-file"/></svg>Выбрать файл<input id="local-file" type="file" accept=".xlsx,.xls,.xlsm,.csv" class="sr-only"></label></div>

diff --git a/public/source.js b/public/source.js
@@ -4,8 +4,11 @@ export function isConsumptionFile(name) {
   return /(^|[^\p{L}])потребление([^\p{L}]|$)/u.test(base);
 }
 
-// One enterprise is one folder. Select its newest registry independently of API order.
-export function newestRegistry(items) {
-  return items.filter(item => item.type === 'file' && /\.(xlsx|xls|xlsm|csv)$/i.test(item.name) && !item.name.startsWith('~$') && !isConsumptionFile(item.name))
+function newestWorkbook(items, consumption) {
+  return items.filter(item => item.type === 'file' && /\.(xlsx|xls|xlsm|csv)$/i.test(item.name) && !item.name.startsWith('~$') && isConsumptionFile(item.name) === consumption)
     .sort((a, b) => String(b.modified || '').localeCompare(String(a.modified || '')) || a.name.localeCompare(b.name, 'ru'))[0] || null;
 }
+
+// These sources remain separate: finding consumption never adds it to subscriber search.
+export function newestRegistry(items) { return newestWorkbook(items, false); }
+export function newestConsumption(items) { return newestWorkbook(items, true); }

diff --git a/PROJECT_CONTEXT.md b/PROJECT_CONTEXT.md
@@ -4,7 +4,7 @@
 
 ## Запрос владельца
 
-Основная аудитория — сотрудники электросетей со смартфонами. Поиск по реестру Excel по номеру ПУ или ЛС, показ всех полей строки. Одна закреплённая публичная папка Яндекс Диска, внутри — папки предприятий электрических сетей с произвольными названиями. Выбор предприятия в настройках сохраняется на устройстве. Предпочтительное размещение — Амвера; пользователь также спрашивал про возможность простой статической версии на GitHub Pages.
+Основная аудитория — сотрудники электросетей со смартфонами. Поиск по реестру Excel по номеру ПУ или ЛС, показ всех полей строки. Одна закреплённая публичная папка Яндекс Диска, внутри — папки предприятий электрических сетей с произвольными названиями. Выбор предприятия в отдельной модалке сохраняется на устройстве. Предпочтительное размещение — Амвера; пользователь также спрашивал про возможность простой статической версии на GitHub Pages.
 
 ## Реализация
 
@@ -18,7 +18,7 @@
 - `amvera.yml` — Node 22, без сборки, порт 3000.
 - `.github/workflows/pages.yml` — ручная публикация только статической части; запуск не означает, что Pages уже настроен.
 
-Название в шапке: «РОССЕТИ — Кубаньэнерго». Знак и начертание «РОССЕТИ» из официального SVG; подпись «КУБАНЬЭНЕРГО» текстовая. Дизайн: тёмно-синяя шапка, светлая рабочая поверхность, синие управляющие элементы. На телефоне одна колонка и нижние диалоги, на ПК поиск слева, результаты справа. Без внешних шрифтов, аналитики и реальных данных в репозитории.
+Название в шапке: «РОССЕТИ — Кубаньэнерго». Знак и начертание «РОССЕТИ» из официального SVG; подпись «КУБАНЬЭНЕРГО» текстовая. Дизайн: тёмно-синяя шапка, светлая рабочая поверхность, синие управляющие элементы. На телефоне одна колонка; выбор предприятия и настройки открываются на весь экран, карточка абонента — отдельным большим диалогом, на ПК поиск слева, результаты справа. Без внешних шрифтов, аналитики и реальных данных в репозитории.
 
 ## Незавершённое подключение, не выдавать за проверенное
 
@@ -43,3 +43,11 @@
 - В папке один или несколько Excel. Файл «Потребление» предназначен для будущего этапа и сейчас не используется. Исключаются также имена с этим словом, регистр не важен. При нескольких остальных реестрах выбирается самый недавно изменённый.
 - `public/source.js` определяет выбор реестра. Папка перечитывается при каждом входе и обновлении. Однозначная шапка принимается автоматически; неоднозначная требует подтверждения и запоминается для того же предприятия и набора столбцов.
 - Проверено на синтетической книге и имитации API: выбор предприятия, пропуск более нового «Потребления», автоматическая загрузка, поиск, восстановление выбора, отсутствие реестра. Реальный Диск не проверен.
+
+## Разделение выбора и настроек, индикаторы
+
+- Кнопка предприятия на главной открывает `enterprise-dialog`: только названия из Диска и отметка выбора, без иконок папок. Во время чтения показаны спиннер и полоса загрузки. Настройки открываются отдельно; там статусы и имена файлов, обновление, местный Excel и сопоставление столбцов.
+- Корневая папка проверяется при открытии сайта. Наличие ссылки само по себе не включает зелёный индикатор Диска. Три подписи в шапке: «Яндекс», «Реестр», «Потребление», уменьшенным шрифтом. Индикаторы файлов серые до выбора предприятия. «Реестр» зелёный после загрузки и подготовки поиска, «Потребление» — после обнаружения соответствующего Excel именно в текущем предприятии (`newestConsumption`). При смене предприятия файловые статусы проверяются заново. Это обнаружение файла, не анализ его содержимого.
+- У полноэкранных мобильных диалогов явно заданы `inset:0`, `height:100dvh`, `margin:0`; тело прокручивается, верхняя панель и закрытие остаются видимыми. Исправлена причина схлопывания прежней модалки.
+- В карточку добавлена кнопка анализа потребления с пометкой «Скоро». Она пока отключена: пользователь ранее отложил сам анализ до следующего этапа. Реальный алгоритм не имитировать.
+- Проверка на синтетическом API: загрузка списка, полноэкранные настройки и выбор (390 px), восстановление после ошибки подключения, отдельное обнаружение потребления, сброс статуса при смене предприятия, кнопка в карточке. Реальный Диск и Safari на устройстве не проверены.
